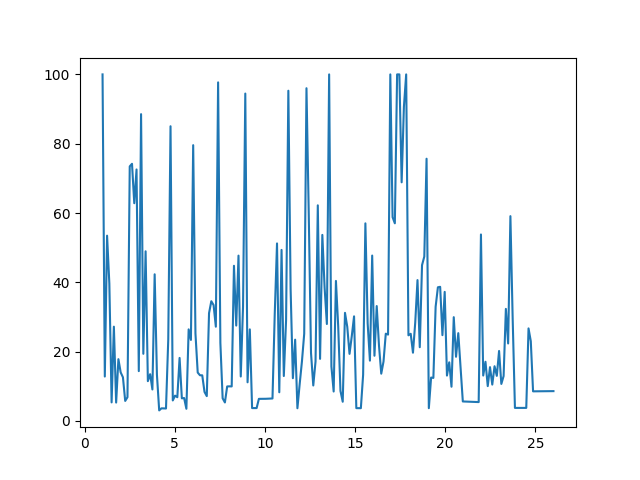
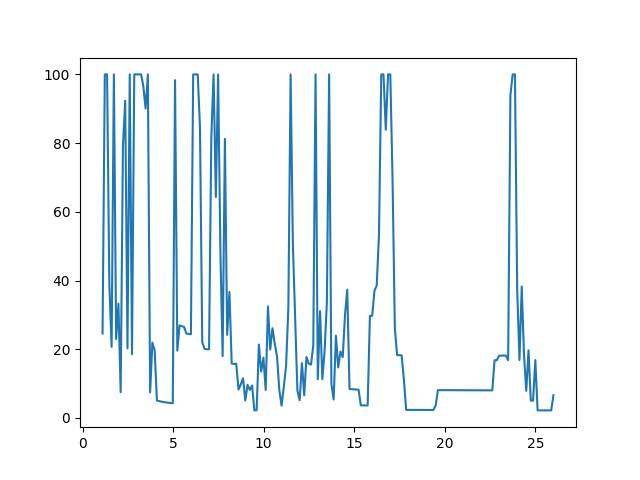
Energy Analysis

diff --git a/src/dE_by_dt.py b/src/dE_by_dt.py
@@ -1,0 +1,77 @@
+import OneSwinging_2D_Explicit
+import TwoSwinging_2D_Explicit
+
+import matplotlib.pyplot as plt
+import matplotlib.animation as animation
+import matplotlib.lines as mlines
+from matplotlib import cm
+import numpy as np
+import scipy
+
+tf = 2*np.pi
+max_nStep = 10**5
+STEPS = np.linspace(10**1,max_nStep,20) 
+DT = tf/STEPS
+u=3
+x0 = np.array([ 3, 0, np.pi/2, 0 ])
+
+DET = np.zeros(len(DT))
+t = np.zeros(len(DT))
+
+for i,dt in enumerate(DT):
+    r,pr,theta,ptheta,dET = OneSwinging_2D_Explicit.integrate(u=u, tf=tf, dt=dt, x0=x0)
+    E = pr**2 / (2*(u+1)) + ptheta**2 / (2*1*r**2) + u*scipy.constants.g*r - 1*scipy.constants.g*r*np.cos(theta)
+    dET = E - E[0] 
+    DET[i] = abs(dET[-1])
+plt.plot(STEPS,DET,label="Maximal Fractional Energy Loss")
+
+n_vec = 10**np.linspace(1.5,3.7,10)
+plt.plot(n_vec, 1/n_vec,":", label=r'$1/N$')
+plt.plot(n_vec, 1/n_vec**2,":", label=r'$1/N^2$')
+plt.plot(n_vec, 1/n_vec**3,":", label=r'$1/N^3$')
+plt.plot(n_vec, 1/n_vec**4,":", label=r'$1/N^4$')
+n_vec = 10**np.linspace(4.5,5,10)
+plt.plot(n_vec, 1e-17*n_vec**0.5,":", label=r'$N^{1/2}$')
+
+plt.xscale("log")
+plt.yscale("log")
+
+plt.xlabel("Number of Step")
+plt.ylabel("Maximal dE")
+
+plt.savefig('../results/dE_By_dt-1S-Explicit.png')
+plt.show()
+
+
+
+
+
+x0 = np.array([ 3, 0, np.pi/2, 0 , np.pi/8 , 0 ])
+r0M = 3
+
+DET = np.zeros(len(STEPS))
+t = np.zeros(len(STEPS))
+
+for i,u in enumerate(STEPS):
+    r,pr,theta_m,ptheta_m,theta_M,ptheta_M,dET = TwoSwinging_2D_Explicit.integrate(u=u, tf=tf, dt=dt, x0=x0,r0M=r0M)
+    E = pr**2 / (2*(u+1)) + ptheta_M**2 / (2*u*((r0M + x0[0])-r)**2) + ptheta_m**2 / (2*1*r**2) - u*scipy.constants.g*((r0M + x0[0])-r)*np.cos(theta_M) - 1*scipy.constants.g*r*np.cos(theta_m)
+    dET = E - E[0] 
+    DET[i] = abs(dET[-1])
+plt.plot(STEPS,DET,label="Clamped Maximal Fractional Energy Loss")
+
+n_vec = 10**np.linspace(1.5,3.7,10)
+plt.plot(n_vec, 1/n_vec,":", label=r'$1/N$')
+plt.plot(n_vec, 1/n_vec**2,":", label=r'$1/N^2$')
+plt.plot(n_vec, 1/n_vec**3,":", label=r'$1/N^3$')
+plt.plot(n_vec, 1/n_vec**4,":", label=r'$1/N^4$')
+n_vec = 10**np.linspace(4.5,5,10)
+plt.plot(n_vec, 1e-17*n_vec**0.5,":", label=r'$N^{1/2}$')
+
+plt.xscale("log")
+plt.yscale("log")
+
+plt.xlabel("Number of Step")
+plt.ylabel("Maximal dE")
+
+plt.savefig('../results/dE_By_dt-2S-Explicit.png')
+plt.show()

diff --git a/src/libraries/custom_ODE_Solver.py b/src/libraries/custom_ODE_Solver.py
@@ -35,34 +35,44 @@ def RK4(nsteps, dt, x0, derivs):
         
     return x, break_i
 
-def leapfrog(nsteps, dt, x0, v0):
-    x = np.zeros((nsteps, 2))
-    v = np.zeros((nsteps, 2))
-    x[0] = x0
-    v[0] = v0
+def leapfrog(nsteps, dt, x0, derivs2):
+    
+    r = x0[0]
+    pr = x0[1]
+    theta_m = x0[2]
+    ptheta_m  = x0[3]
+    theta_M = x0[4]
+    ptheta_M  = x0[5]
+
+    x = np.zeros((nsteps, len(x0)))
     break_i = nsteps
+
     for i in range(1, nsteps):
-        r = (x[i-1,0]**2 + x[i-1,1]**2)**0.5
-        a = -x[i-1] / r**3
-        v12 = v[i-1] + a * dt/2
-        x[i] = x[i-1] + v12 * dt
-        r = (x[i,0]**2 + x[i,1]**2)**0.5
-        a = -x[i] / r**3
-        v[i] = v12 + a * dt/2
+        dx, d2x = derivs2((i-1)*dt, x[i-1])
+        v_12 = x[i-1][1::2] + d2x * dt/2
+        x[i][0::2] = x[i-1][0::2] + v_12 * dt
+        dx, d2x = derivs2(i*dt, x[i])
+        x[i][1::2] = v_12 + d2x * dt/2
+
         if x[i][0] <= 0.1 :
             break_i = i
             break
-    return x[:,0], x[:,1], v[:,0], v[:,1]
+    return x, break_i
 
 
 def euler_cromer(nsteps, dt, x0, derivs2):
     x = np.zeros((nsteps, len(x0)))
     x[0] = x0
+    v = np.zeros((nsteps, int(len(x0)/2)))
+    dx0, d2x0 = derivs2(dt, x0)
+    v[0] = dx0[0::2]
     break_i = nsteps
     for i in range(1, nsteps):
         dx, d2x = derivs2(dt, x[i-1])
-        dx_new = dx + dt*d2x
-        x[i] = x[i-1] + dt*dx_new
+        v[i] = v[i-1] + dt*d2x[0::2]
+        x[i][1::2] = x[i-1][1::2] + dt*d2x[1::2]
+        x[i][0::2] = x[i-1][0::2] + dt*v[i]
+
         if x[i][0] <= 0.1 : 
             break_i = i
         '''r_new, _, theta_new, _ = x[i]

diff --git a/src/Trajectories.py b/src/Trajectories.py
@@ -13,7 +13,7 @@ dt = 0.01
 x0 = np.array([ 3, 0, np.pi/2, 0  ])
 r0M = 3
 
-fig,ax = plt.subplots(2,4,figsize=(40,10))
+fig,ax = plt.subplots(2,4,figsize=(20,10))
 plt.subplots_adjust(wspace = 0.3, hspace = 0.3)
 i=0
 for u in [2,3,5,6,16,19,21,24]:    
@@ -36,7 +36,7 @@ plt.show()
 
 x0 = np.array([ 3, 0, np.pi/2, 0 , np.pi/8 , 0 ])
 
-fig,ax = plt.subplots(2,4,figsize=(40,10))
+fig,ax = plt.subplots(2,4,figsize=(20,10))
 plt.subplots_adjust(wspace = 0.2)
 i=0
 for u in [2,3,5,6,16,19,21,24]:    
@@ -54,14 +54,13 @@ plt.suptitle('Trajectories for diverse mass ratio (Theta_0 = pi/2  &  No initial
 plt.savefig('../results/Trajectories-2S-Explicit.png')
 plt.show()
 
-
 fig,ax = plt.subplots(2,4,figsize=(40,10))
 plt.subplots_adjust(wspace = 0.2)
 i=0
 for u in [2,3,5,6,16,19,21,24]:    
     r,pr,theta_m,ptheta_m,theta_M,ptheta_M,dET = TwoSwinging_2D_Explicit.integrate(u=u, tf=tf, dt=dt, x0=x0,r0M=r0M)
     X_M = (r0M + x0[0]-r)*np.sin(theta_M); Y_M = -(r0M + x0[0]-r)*np.cos(theta_M)
-    sc = ax[int(i/4)][i%4].scatter(X,Y,s=0.5,c=dET,alpha=0.8,)
+    sc = ax[int(i/4)][i%4].scatter(X_M,Y_M,s=0.5,c=dET,alpha=0.8,)
     ax[int(i/4)][i%4].set_aspect('equal','datalim')
     ax[int(i/4)][i%4].set_title('mu = ' + str(u))
 

diff --git a/src/TimeUntilSingular.py b/src/TimeUntilSingular.py
@@ -10,7 +10,7 @@ import numpy as np
 tf = 100
 dt = 0.01
 maxU = 25
-U = np.linspace(1,maxU+1,200)
+U = np.linspace(1.1,maxU+1,200)
 x0 = np.array([ 3, 0, np.pi/2, 0 ])
 t = np.zeros(len(U))
 for i,u in enumerate(U):
@@ -24,8 +24,8 @@ plt.show()
 tf = 100
 dt = 0.01
 maxU = 25
-U = np.linspace(1,maxU+1,200)
-x0 = np.array([ 3, 0, np.pi/2, 0 , np.pi/2 , 0 ])
+U = np.linspace(1.1,maxU+1,200)
+x0 = np.array([ 3, 0, np.pi/2, 0 , np.pi/8 , 0 ])
 r0M = 3
 t = np.zeros(len(U))
 for i,u in enumerate(U):
